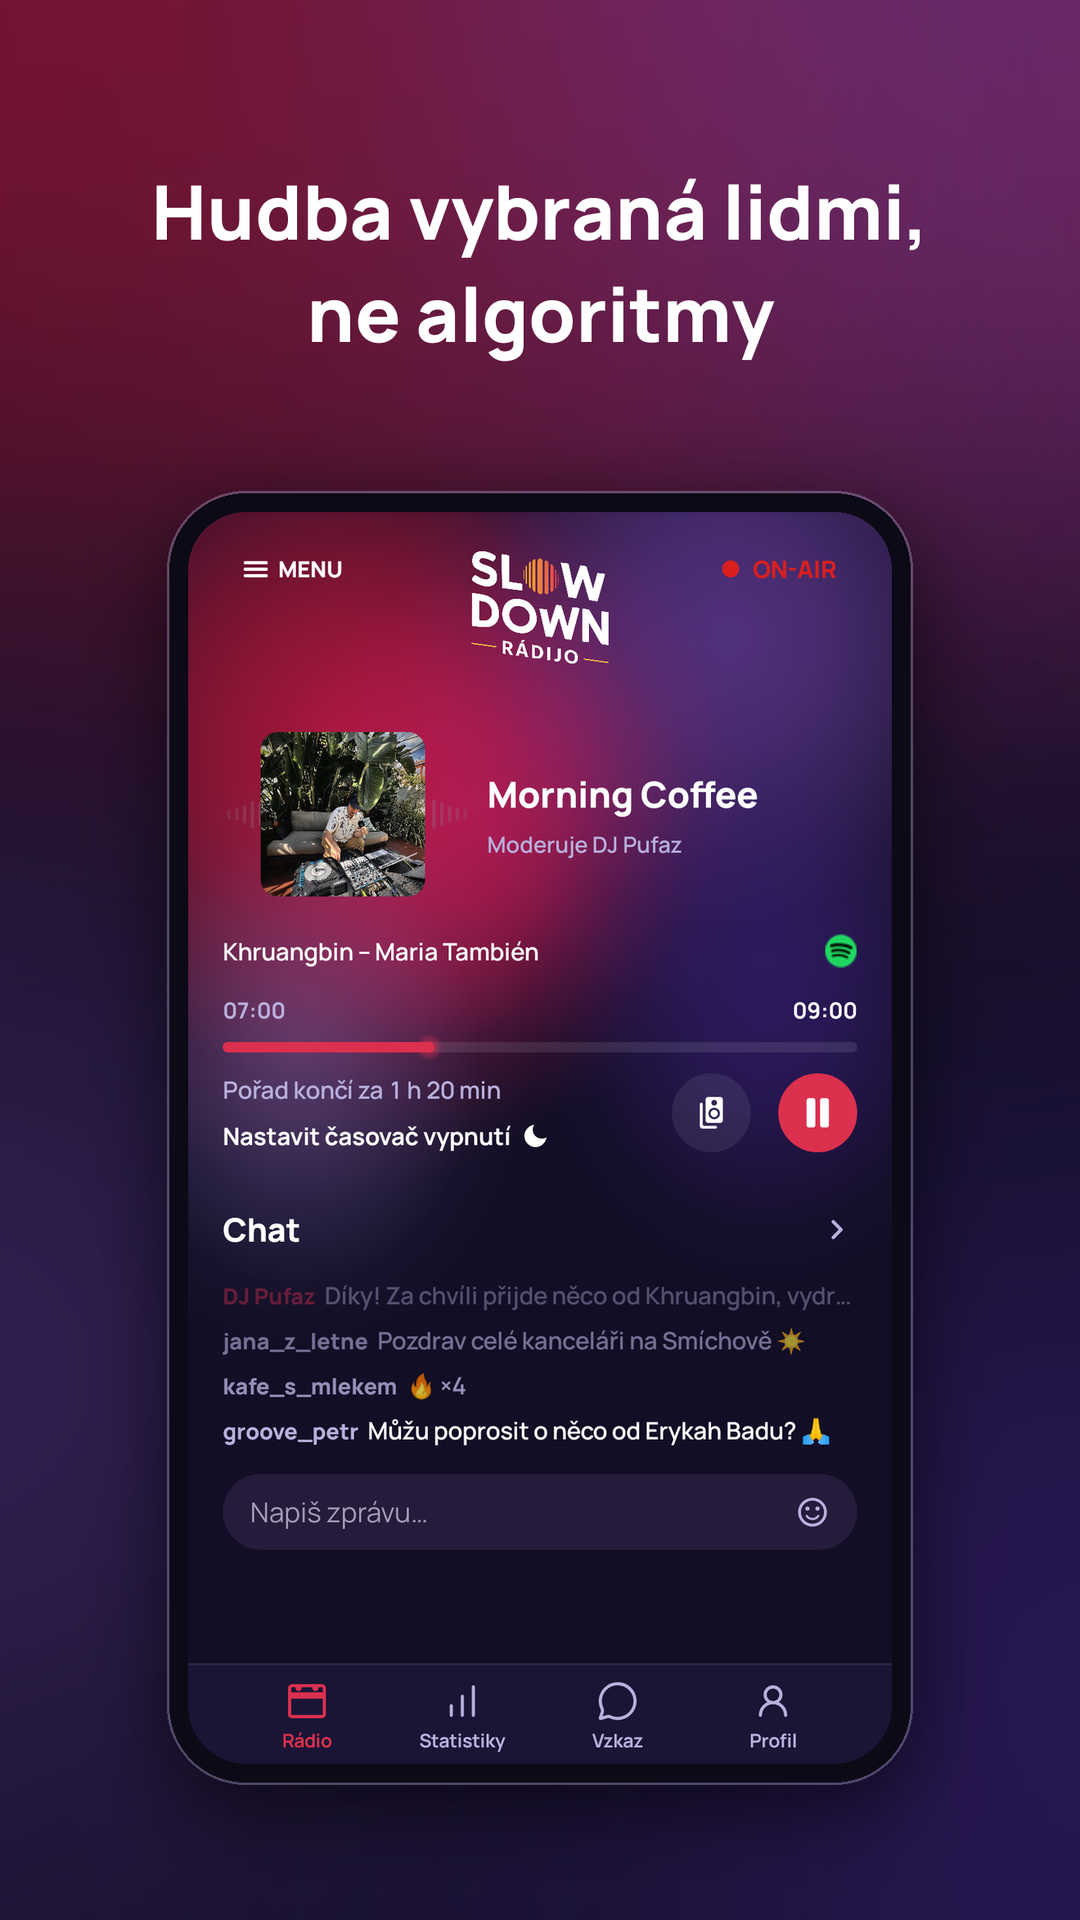
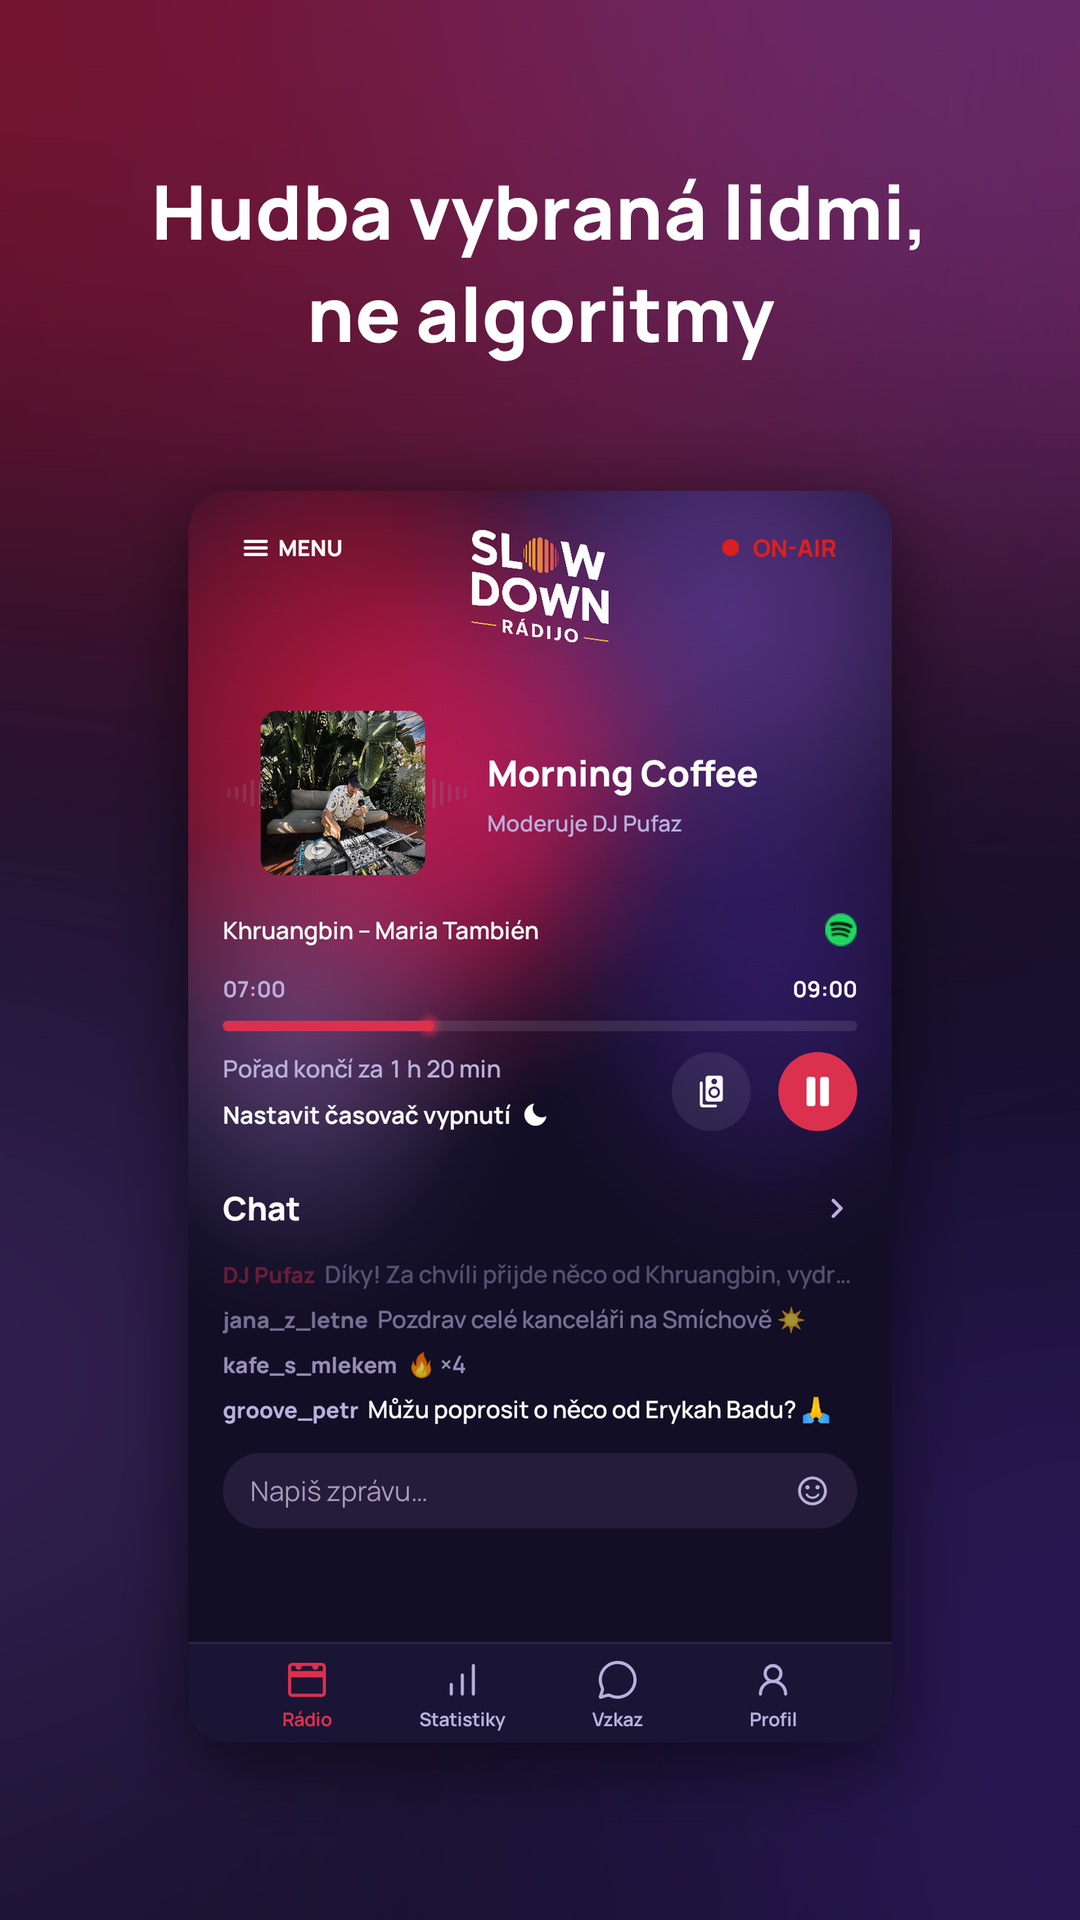
Google Play screenshots without a phone outline (frame.py --bare)

diff --git a/tools/appstore/frame.py b/tools/appstore/frame.py
@@ -10,6 +10,7 @@ Store.
 
     python3 tools/appstore/frame.py <screens dir> <output dir> [style] [--play]
 
+With --bare the screen stands on its own, without a phone outline.
 With --play the cards are 1080 x 1920 (Google Play's 9:16) instead of
 1320 x 2868, for the Android screens from StoreScreenshotTest.
 
@@ -111,6 +112,7 @@ PHONE_W = 960                 # the screen's width on the card
 BEZEL = 26
 SCREEN_RADIUS = 118
 PHONE_TOP = 640
+BARE = False  # --bare: the screen without a phone outline
 
 
 ORDER = list(SCREENS)
@@ -264,8 +266,21 @@ def frame(screen_path, lang, key, out_path, style="clouds"):
     else:
         draw.multiline_text(origin, text, font=font, fill=(255, 255, 255), spacing=26, align="center")
 
-    # The screen in a phone outline, with a soft shadow.
     screen = Image.open(screen_path).convert("RGB")
+    if BARE:
+        # No phone: the screen itself with rounded corners and a soft shadow.
+        sh = round(screen.height * PHONE_W / screen.width)
+        screen = screen.resize((PHONE_W, sh), Image.LANCZOS)
+        px = (W - PHONE_W) // 2
+        shadow = Image.new("RGBA", (W, H), (0, 0, 0, 0))
+        ImageDraw.Draw(shadow).rounded_rectangle((px, PHONE_TOP + 24, px + PHONE_W, PHONE_TOP + 24 + sh), 48, fill=(0, 0, 0, 140))
+        shadow = shadow.filter(ImageFilter.GaussianBlur(44))
+        card = Image.alpha_composite(card.convert("RGBA"), shadow)
+        card.paste(screen, (px, PHONE_TOP), rounded(screen.size, 48))
+        card.convert("RGB").save(out_path)
+        return
+
+    # The screen in a phone outline, with a soft shadow.
     sh = round(screen.height * PHONE_W / screen.width)
     screen = screen.resize((PHONE_W, sh), Image.LANCZOS)
     pw, ph = PHONE_W + 2 * BEZEL, sh + 2 * BEZEL
@@ -301,6 +316,8 @@ def use_play_size():
 def main():
     args = [a for a in sys.argv[1:] if not a.startswith("--")]
     play = "--play" in sys.argv
+    global BARE
+    BARE = "--bare" in sys.argv
     src, out = args[0], args[1]
     style = args[2] if len(args) > 2 else "clouds"
     if play:

diff --git a/docs/google-play.md b/docs/google-play.md
@@ -11,7 +11,8 @@ Grafika je v `android/store/`:
 |---|---|---|
 | `icon-512.png` | Ikona aplikace (512 × 512) | `python3 tools/android/store_graphics.py` |
 | `feature-graphic.png` | Úvodní grafika (1024 × 500) | totéž |
-| `screenshots/cs/*.png`, `screenshots/en/*.png` | Snímky obrazovky telefonu (1080 × 1920, Play chce přesně 9 : 16), v pořadí podle čísla | `StoreScreenshotTest` (`-Proborazzi.test.record=true`), pak `store_graphics.py` |
+| `play/cs/*.png`, `play/en/*.png` | **Snímky do obchodu (od 1.3):** text nahoře, obrazovka bez telefonu, mraky; 1080 × 1920 (Play chce přesně 9 : 16), v pořadí podle čísla | `StoreScreenshotTest` (`-Proborazzi.test.record=true`) → `screenshots/`, pak `python3 tools/appstore/frame.py <obrazovky> <výstup> clouds --play --bare` |
+| `screenshots/cs/*.png`, `screenshots/en/*.png` | Holé obrazovky z testu (podklad pro `play/`) | `StoreScreenshotTest` |
 
 ## Nastavení obchodu (Zvýšení počtu uživatelů → Nastavení obchodu)
 
